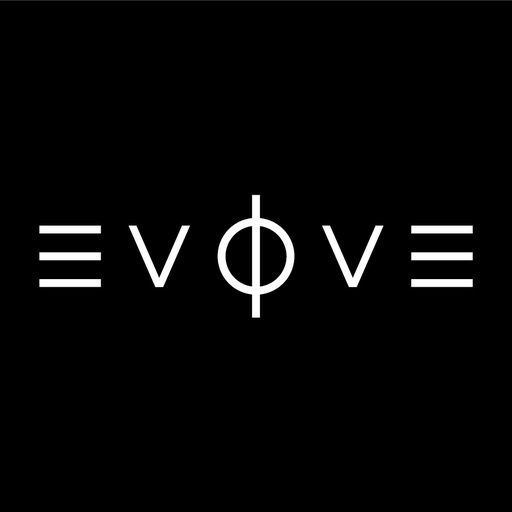
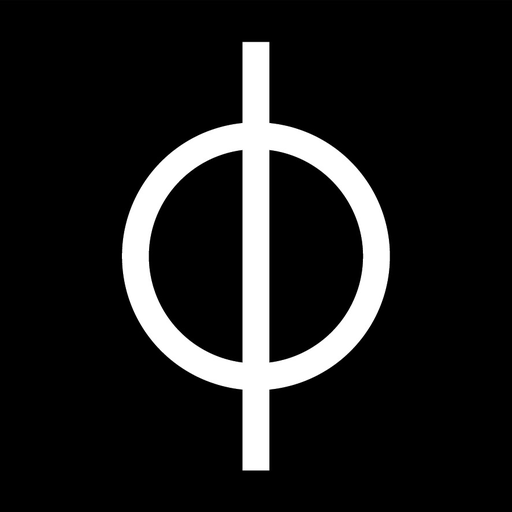
Corrige logótipo/ícone, tabela de composição corporal e adiciona comparação de fotos antes/depois

Changed region(s): [[0.0625, 0.0625, 0.9375, 0.9375]]

diff --git a/index.html b/index.html
@@ -245,7 +245,7 @@
   textarea.notes-area{width:100%; min-height:160px; border:1px solid var(--line-strong); border-radius:11px; padding:12px 14px; background:var(--bg); font-size:0.9rem; line-height:1.5; resize:vertical;}
 
   .brand-header{display:flex; align-items:center; justify-content:space-between; margin-bottom:14px; gap:12px;}
-  .evolve-mark{height:22px; width:auto; color:var(--ink); flex-shrink:0;}
+  .evolve-mark{height:26px; width:auto; color:var(--ink); flex-shrink:0;}
   .section-gap{margin-top:22px;}
   .muted-p{font-size:0.85rem; color:var(--muted); line-height:1.5;}
 
@@ -253,9 +253,11 @@
   table.assess-table{width:100%; border-collapse:collapse; margin-top:12px; font-size:0.82rem;}
   table.assess-table th, table.assess-table td{padding:7px 6px; text-align:right; border-bottom:1px solid var(--line);}
   table.assess-table th:first-child, table.assess-table td:first-child{text-align:left;}
-  table.assess-table th{font-size:0.66rem; text-transform:uppercase; letter-spacing:0.05em; color:var(--muted); font-weight:600;}
-  table.assess-table td{font-family:var(--mono); font-variant-numeric:tabular-nums;}
+  table.assess-table th{font-size:0.66rem; text-transform:uppercase; letter-spacing:0.05em; color:var(--muted); font-weight:600; white-space:nowrap;}
+  table.assess-table td{font-family:var(--mono); font-variant-numeric:tabular-nums; white-space:nowrap;}
   table.assess-table td.date-cell{font-family:var(--sans);}
+  .assess-table-scroll{overflow-x:auto; margin-top:12px; -webkit-overflow-scrolling:touch;}
+  .assess-table-scroll table.assess-table{margin-top:0;}
   .assess-delta{font-size:0.68rem; color:var(--muted-2); margin-left:3px;}
   .assess-form-grid{display:grid; grid-template-columns:repeat(auto-fill, minmax(100px,1fr)); gap:10px; margin-top:12px; align-items:end;}
   .assess-form-grid .f label{display:block; font-size:0.65rem; color:var(--muted); text-transform:uppercase; margin-bottom:4px; font-weight:600;}
@@ -267,6 +269,12 @@
   .photo-thumb{position:relative; border-radius:10px; overflow:hidden; aspect-ratio:3/4; background:var(--surface-2); border:1px solid var(--line);}
   .photo-thumb img{width:100%; height:100%; object-fit:cover; display:block;}
   .photo-thumb .pdate{position:absolute; bottom:4px; left:4px; font-size:0.6rem; background:rgba(0,0,0,0.65); color:#fff; padding:2px 6px; border-radius:6px; font-family:var(--mono);}
+
+  .mini-select{border:1px solid var(--line-strong); background:var(--bg); color:var(--ink); border-radius:9px; padding:8px 10px; font-size:0.82rem; font-family:var(--sans);}
+  .compare-row{display:flex; gap:10px;}
+  .compare-row .compare-item{flex:1; text-align:center;}
+  .compare-row img{width:100%; display:block; border-radius:12px; aspect-ratio:3/4; object-fit:cover; border:1px solid var(--line-strong);}
+  .compare-row .clabel{font-size:0.68rem; color:var(--muted); margin-top:6px; font-family:var(--mono); text-transform:uppercase; letter-spacing:0.03em;}
 
   /* Onboarding form */
   .onb-field{margin-bottom:14px;}
@@ -285,17 +293,17 @@
 
 <div class="app-wrap">
   <div class="brand-header">
-    <svg class="evolve-mark" viewBox="0 0 750 200" xmlns="http://www.w3.org/2000/svg" role="img" aria-label="Evolve">
-      <rect x="0" y="20" width="110" height="10" fill="currentColor"></rect>
-      <rect x="0" y="95" width="110" height="10" fill="currentColor"></rect>
-      <rect x="0" y="170" width="110" height="10" fill="currentColor"></rect>
-      <polyline points="150,20 215,180 280,20" fill="none" stroke="currentColor" stroke-width="10" stroke-linecap="butt" stroke-linejoin="miter"></polyline>
-      <circle cx="375" cy="100" r="55" fill="none" stroke="currentColor" stroke-width="10"></circle>
-      <line x1="375" y1="0" x2="375" y2="200" stroke="currentColor" stroke-width="10"></line>
-      <polyline points="470,20 535,180 600,20" fill="none" stroke="currentColor" stroke-width="10" stroke-linecap="butt" stroke-linejoin="miter"></polyline>
-      <rect x="640" y="20" width="110" height="10" fill="currentColor"></rect>
-      <rect x="640" y="95" width="110" height="10" fill="currentColor"></rect>
-      <rect x="640" y="170" width="110" height="10" fill="currentColor"></rect>
+    <svg class="evolve-mark" viewBox="0 0 1060 320" xmlns="http://www.w3.org/2000/svg" role="img" aria-label="Evolve">
+      <rect x="0" y="60" width="220" height="20" fill="currentColor"></rect>
+      <rect x="0" y="150" width="220" height="20" fill="currentColor"></rect>
+      <rect x="0" y="240" width="220" height="20" fill="currentColor"></rect>
+      <polyline points="260,60 325,260 390,60" fill="none" stroke="currentColor" stroke-width="20" stroke-linecap="butt" stroke-linejoin="miter"></polyline>
+      <circle cx="530" cy="160" r="90" fill="none" stroke="currentColor" stroke-width="20"></circle>
+      <line x1="530" y1="0" x2="530" y2="320" stroke="currentColor" stroke-width="20"></line>
+      <polyline points="670,60 735,260 800,60" fill="none" stroke="currentColor" stroke-width="20" stroke-linecap="butt" stroke-linejoin="miter"></polyline>
+      <rect x="840" y="60" width="220" height="20" fill="currentColor"></rect>
+      <rect x="840" y="150" width="220" height="20" fill="currentColor"></rect>
+      <rect x="840" y="240" width="220" height="20" fill="currentColor"></rect>
     </svg>
     <div class="mode-switch" id="modeSwitch">
       <button data-mode="aluno">Aluno</button>
@@ -862,7 +870,7 @@ function tplAssessForm(s){
 function tplAssessTable(s, editable){
   var list = (s.assessments||[]).slice().sort(function(a,b){ return a.date<b.date?1:-1; });
   if (!list.length) return "<p class=\"muted-p\" style=\"margin-top:10px;\">Ainda sem avaliações registadas.</p>";
-  var html = "<table class=\"assess-table\"><thead><tr><th>Data</th><th>Peso</th><th>M. gorda</th><th>M. muscular</th><th>Visceral</th><th>Água</th>" + (editable?"<th></th>":"") + "</tr></thead><tbody>";
+  var html = "<div class=\"assess-table-scroll\"><table class=\"assess-table\"><thead><tr><th>Data</th><th>Peso</th><th>M. gorda</th><th>M. muscular</th><th>Visceral</th><th>Água</th>" + (editable?"<th></th>":"") + "</tr></thead><tbody>";
   list.forEach(function(a, idx){
     var prev = list[idx+1];
     html += "<tr>" +
@@ -875,7 +883,7 @@ function tplAssessTable(s, editable){
       (editable ? "<td><button type=\"button\" class=\"assess-del\" data-idx=\"" + idx + "\" aria-label=\"Remover\">✕</button></td>" : "") +
     "</tr>";
   });
-  html += "</tbody></table>";
+  html += "</tbody></table></div>";
   return html;
 }
 
@@ -886,17 +894,52 @@ function photoGridHtml(s){
   }).join("") + "</div>";
 }
 
+function tplPhotoCompare(s){
+  if (!s.photos || s.photos.length < 2) return "";
+  var sorted = s.photos.slice().sort(function(a,b){ return a.date<b.date?-1:1; });
+  var lastIdx = sorted.length-1;
+  var optionsBefore = sorted.map(function(p,i){ return "<option value=\"" + i + "\">" + fmtDatePt(p.date) + "</option>"; }).join("");
+  var optionsAfter = sorted.map(function(p,i){ return "<option value=\"" + i + "\"" + (i===lastIdx?" selected":"") + ">" + fmtDatePt(p.date) + "</option>"; }).join("");
+  return "<div style=\"margin-top:14px; padding-top:14px; border-top:1px solid var(--line);\">" +
+    "<div class=\"eyebrow\" style=\"margin-bottom:8px;\">Comparar antes / depois</div>" +
+    "<div style=\"display:flex; gap:10px; margin-bottom:12px;\">" +
+      "<select class=\"mini-select\" id=\"compareBefore\" style=\"flex:1;\">" + optionsBefore + "</select>" +
+      "<select class=\"mini-select\" id=\"compareAfter\" style=\"flex:1;\">" + optionsAfter + "</select>" +
+    "</div>" +
+    "<div class=\"compare-row\" id=\"compareRow\"></div>" +
+  "</div>";
+}
+
+function wirePhotoCompare(s, el){
+  var beforeSel = el.querySelector("#compareBefore");
+  var afterSel = el.querySelector("#compareAfter");
+  var row = el.querySelector("#compareRow");
+  if (!beforeSel || !afterSel || !row) return;
+  var sorted = s.photos.slice().sort(function(a,b){ return a.date<b.date?-1:1; });
+  function update(){
+    var b = sorted[parseInt(beforeSel.value,10)];
+    var a = sorted[parseInt(afterSel.value,10)];
+    row.innerHTML =
+      "<div class=\"compare-item\"><img src=\"" + b.dataUrl + "\" alt=\"Antes\"><div class=\"clabel\">Antes · " + fmtDatePt(b.date) + "</div></div>" +
+      "<div class=\"compare-item\"><img src=\"" + a.dataUrl + "\" alt=\"Depois\"><div class=\"clabel\">Depois · " + fmtDatePt(a.date) + "</div></div>";
+  }
+  beforeSel.addEventListener("change", update);
+  afterSel.addEventListener("change", update);
+  update();
+}
+
 function tplPhotosSection(s, opts){
   var html = "<div class=\"card\"><div class=\"eyebrow\">Fotografias de progresso</div>";
   if (opts.editable){
     html += "<label style=\"display:flex; align-items:center; gap:8px; font-size:0.85rem; cursor:pointer; margin:10px 0;\">" +
       "<input type=\"checkbox\" id=\"togglePhotos\"" + (s.allowPhotos?" checked":"") + "> Permitir que o aluno carregue fotos de progresso</label>" +
-      photoGridHtml(s);
+      photoGridHtml(s) + tplPhotoCompare(s);
   } else if (!s.allowPhotos){
     html += "<p class=\"muted-p\" style=\"margin-top:8px;\">O teu profissional ainda não ativou fotografias de progresso para ti.</p>";
   } else {
     html += photoGridHtml(s) +
-      "<label class=\"btn-file\" style=\"margin-top:10px; display:inline-block;\">Adicionar fotografia<input type=\"file\" accept=\"image/*\" id=\"photoUpload\" style=\"display:none;\"></label>";
+      "<label class=\"btn-file\" style=\"margin-top:10px; display:inline-block;\">Adicionar fotografia<input type=\"file\" accept=\"image/*\" id=\"photoUpload\" style=\"display:none;\"></label>" +
+      tplPhotoCompare(s);
   }
   html += "</div>";
   return html;
@@ -980,6 +1023,7 @@ function wireAlunoTab(s){
     };
     reader.readAsDataURL(file);
   });
+  wirePhotoCompare(s, el);
 
   var submitBtn = el.querySelector("#submitCheckin");
   if (submitBtn) submitBtn.addEventListener("click", function(){
@@ -1358,6 +1402,7 @@ function wireProTab(s){
     s.allowPhotos = togglePhotos.checked;
     renderProTabContent(s);
   });
+  wirePhotoCompare(s, el);
 
   var addAs = el.querySelector("#addAssessment");
   if (addAs) addAs.addEventListener("click", function(){
